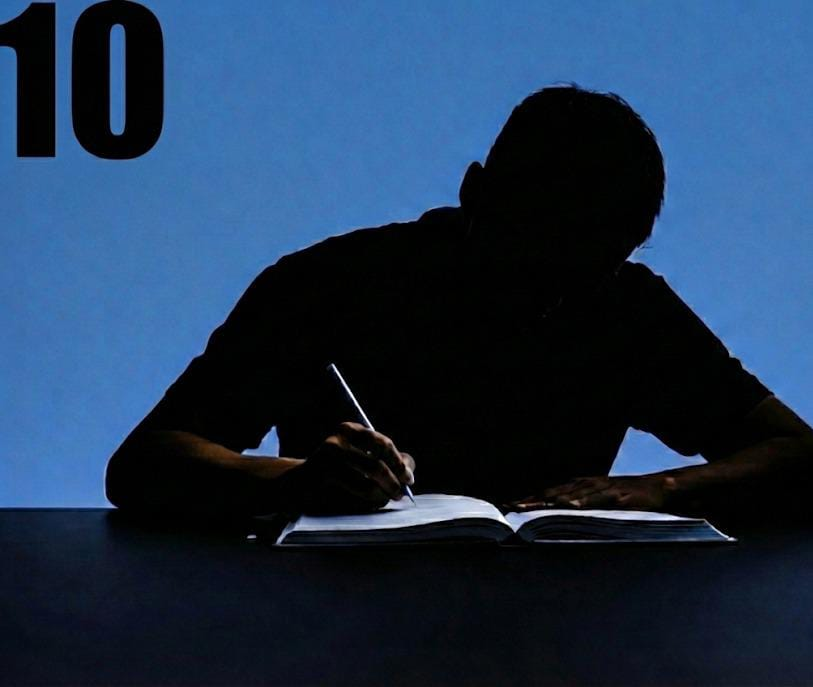
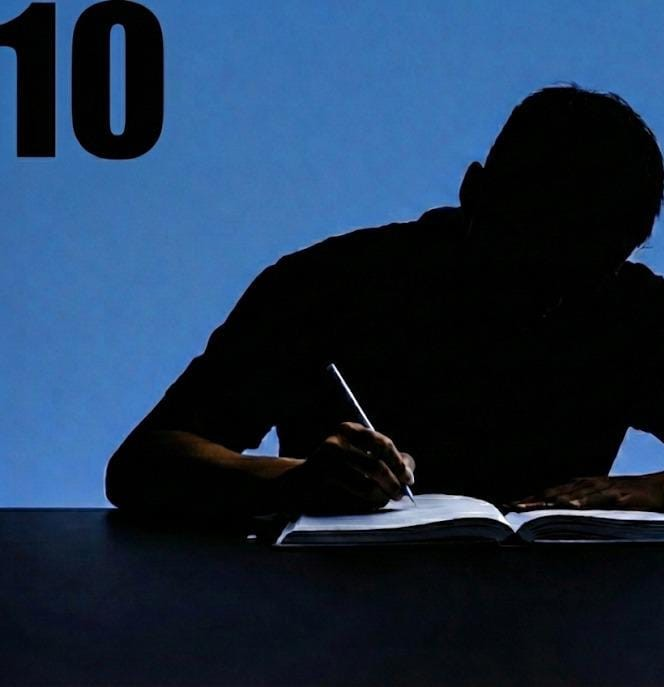
changed cohorts bg image

diff --git a/src/components/Cohort.jsx b/src/components/Cohort.jsx
@@ -1,9 +1,9 @@
 import React from "react";
 import "./Cohort.css";
 
-import img1 from "../assets/class10pic.jpeg";
-import img2 from "../assets/creating-mock-test-scenarios-ar-generative-ai_1198295-118233.jpg";
-import img3 from "../assets/exam-hall.webp";
+import img1 from "../assets/class10new.png";
+import img2 from "../assets/11.png";
+import img3 from "../assets/class_12.png";
 
 const Cohort = () => {
   return (
